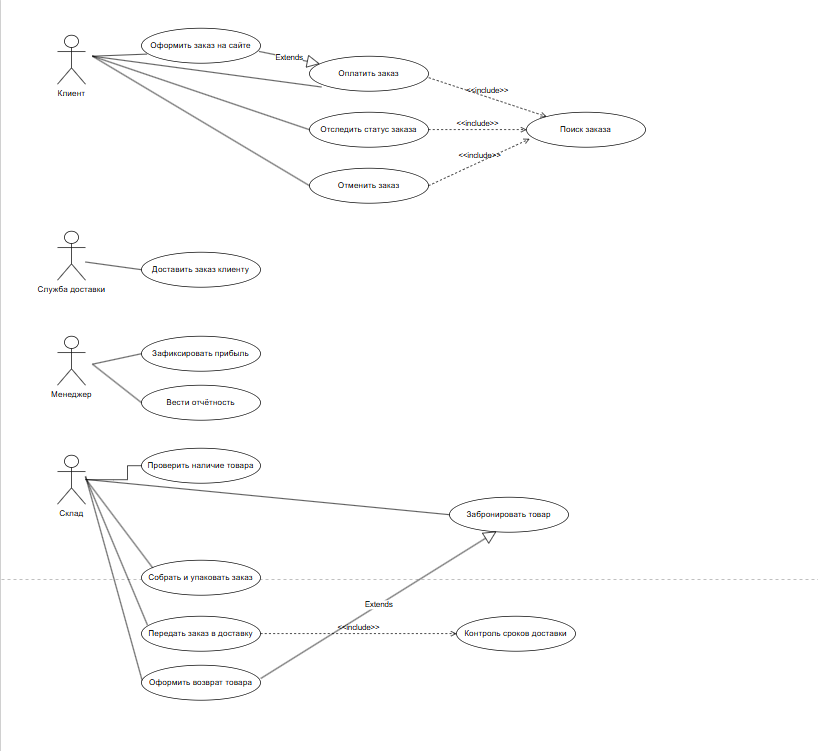
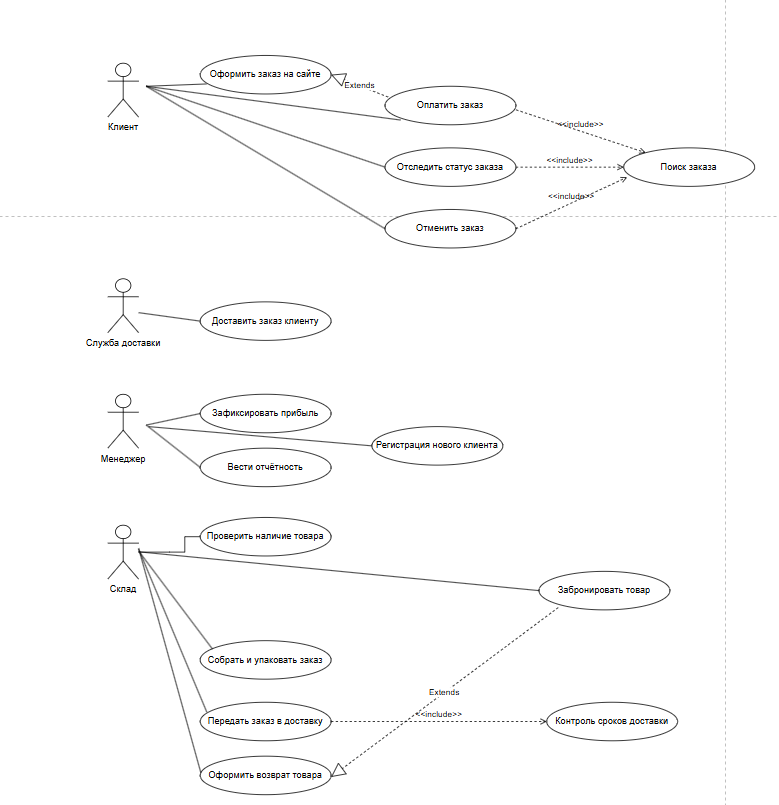
Лабораторная работа №1

diff --git a/docs/lab1.md b/docs/lab1.md
@@ -12,19 +12,19 @@
 
 ### 1.1 Описание предметной области
 
-Система «Учёт заказов в интернет-магазине» предназначена для хранения и обработки информации о заказах, товарах, клиентах, оплате и доставке. Система автоматизирует процесс оформления и обработки заказов: от момента оформления на сайте до вручения клиенту и фиксации прибыли.
+Система «Учёт заказов в интернет-магазине» предназначена для хранения и обработки информации о заказах, товарах, зарегистрированных клиентах, оплате и доставке. Система автоматизирует процесс обработки заказов в базе данных (БД): от момента ручной регистрации нового клиента менеджером в системе и оформления заказа через сайт до автоматического изменения электронных статусов при доставке и фиксации прибыли.
 
 **Основные объекты системы:**
 
-- **Заказ** — идентификатор, дата оформления, клиент, список товаров, сумма, способ оплаты, статус, дата доставки.
-- **Товар** — идентификатор, наименование, категория, цена, остаток на складе.
-- **Клиент** — идентификатор, ФИО, контактные данные, адрес доставки, история заказов.
-- **Менеджер** — сотрудник, обрабатывающий заказы и формирующий отчётность.
-- **Склад** — данные о наличии и бронировании товаров, сборке и упаковке заказов.
-- **Служба доставки** — данные о доставке заказа клиенту.
-- **Оплата** — способ оплаты (онлайн или при получении), статус оплаты.
+- **Заказ** — идентификатор (ID), дата оформления, привязка к ID клиента, список товаров, итоговая сумма, способ оплаты, текущий статус в БД, дата доставки.
+- **Товар** — идентификатор, наименование, категория, цена, доступный остаток на складе.
+- **Клиент** — идентификатор (ID), ФИО, контактные данные, адрес доставки, созданная менеджером учётная запись, история заказов.
+- **Менеджер** — сотрудник, выполняющий первичную регистрацию клиентов в базе данных, переводящий заказы в статус сборки и контролирующий отчётность.
+- **Склад** — подсистема учёта, хранящая данные о наличии товаров, автоматическом резервировании и формировании электронных листов сборки.
+- **Служба доставки** — подсистема, передающая в БД статус исполнения («Доставлено» или «Отказ»).
+- **Оплата** — способ расчёта (онлайн или при получении), статус подтверждения платежа в системе.
 
-**Связи между объектами:** один клиент может оформить несколько заказов, один заказ может содержать несколько товаров, каждый заказ относится к определённому клиенту, менеджеру и способу оплаты.
+**Связи между объектами:** один зарегистрированный менеджер может внести в базу данных несколько клиентов; один клиент может оформить несколько заказов; один заказ может содержать несколько товаров; каждый заказ в БД строго относится к определённому клиенту, менеджеру и выбранному способу оплаты.
 
 ### 1.2 Цели системы
 
@@ -34,19 +34,30 @@
 
 - хранение данных о заказах и клиентах;
 - хранение информации о товарах и остатках на складе;
-- регистрацию новых заказов;
+- регистрацию менеджером новых клиентов в базе данных;
 - ведение истории заказов;
 - просмотр информации о заказе и его статусе;
 - формирование списка заказов для сборки и доставки;
-- редактирование и удаление записей;
-- сохранность и целостность данных.
+- редактирование и удаление записей, сохранность и целостность данных.
 
 ### 1.3 Пользователи системы и их роли
 
 - **Клиент** — основной пользователь системы. Может оформлять заказы, оплачивать их, отслеживать статус, отменять заказы, просматривать историю заказов.
-- **Менеджер** — отвечает за обработку заказов. Может фиксировать прибыль и вести отчётность.
+- **Менеджер** — отвечает за первичную регистрацию и заведение карточки клиента в базе данных, обработку заказов, фиксацию прибыли и ведение отчётности.
 - **Склад** — отвечает за наличие и сборку товаров. Может проверять наличие товара, бронировать товары, собирать и упаковывать заказы, передавать их в доставку, оформлять возврат товара.
 - **Служба доставки** — доставляет заказ клиенту.
+
+### 1.4 Основные функции системы
+
+1. Регистрация клиента менеджером в базе данных
+2. Ввод данных о заказе
+3. Авторизация пользователя
+4. Проверка данных
+5. Проверка наличия товара на складе
+6. Регистрация оплаты
+7. Сохранение заказа в базе данных
+8. Сборка и отправка заказа
+9. Формирование отчёта
 
 ---
 
@@ -58,24 +69,33 @@
 
 Диаграмма вариантов использования отражает взаимодействие актёров (Клиент, Менеджер, Склад, Служба доставки) с функциями системы.
 
-- Актёр **Клиент** взаимодействует с вариантами использования «Оформить заказ на сайте», «Оплатить заказ», «Отследить статус заказа», «Отменить заказ». Оформление заказа расширяется (*Extends*) оплатой заказа. Оплата заказа, отслеживание статуса и отмена заказа включают (*Include*) поиск заказа.
+- Актёр **Менеджер** взаимодействует с вариантами использования «Регистрация нового клиента», «Зафиксировать прибыль» и «Вести отчётность». Менеджер является ключевым сотрудником, который заводит карточку покупателя в базу данных перед оформлением сделки.
+- Актёр **Клиент** взаимодействует с вариантами использования «Оформить заказ на сайте», «Оплатить заказ», «Отследить статус заказа» и «Отменить заказ». Оформление заказа расширяется (*Extends*) оплатой заказа. Оплата заказа, отслеживание статуса и отмена заказа включают в себя (*Include*) обязательный поиск заказа в базе данных.
 - Актёр **Служба доставки** взаимодействует с вариантом использования «Доставить заказ клиенту».
-- Актёр **Менеджер** взаимодействует с вариантами использования «Зафиксировать прибыль» и «Вести отчётность».
-- Актёр **Склад** взаимодействует с вариантами использования «Проверить наличие товара», «Забронировать товар», «Собрать и упаковать заказ», «Передать заказ в доставку», «Оформить возврат товара». Передача заказа в доставку включает (*Include*) контроль сроков доставки, а оформление возврата товара расширяется (*Extends*) контролем сроков доставки.
+- Актёр **Склад** взаимодействует с вариантами использования «Проверить наличие товара», «Забронировать товар», «Собрать и упаковать заказ», «Передать заказ в доставку» и «Оформить возврат товара». Передача заказа в доставку включает (*Include*) контроль сроков доставки, а оформление возврата товара расширяется (*Extends*) контролем сроков доставки.
 
 ### 2.2 Блок-схема оформления заказа
 
-Сначала система получает данные заказа с сайта. Затем она проверяет, есть ли товары на складе.
+![Блок-схема оформления заказа](flowchart.png)
 
-- Если товаров нет — система устанавливает статус «Отменён» и завершает процесс.
-- Если товары есть — система бронирует их на складе.
+На Рисунке 2 показана блок-схема работы программы при обработке заказов. Система управляет процессом и меняет статусы в базе данных (БД):
 
-Далее проверяется, оплачен ли заказ:
+1. Сначала менеджер вводит в систему данные для регистрации нового клиента, и программа создаёт его карточку в базе данных.
+2. Затем система принимает данные самого заказа с сайта.
+3. Программа автоматически проверяет по базе данных, есть ли выбранный товар на складе.
+   - Если товара нет, система сразу ставит заказу статус «Отменён» и завершает работу.
+   - Если товар есть, программа временно бронирует его в базе данных.
+4. Далее проверяется условие: изменился ли статус заказа на «Оплачен».
+   - Если оплата не пришла, система отменяет бронь товара, ставит статус «Отменён» и процесс завершается.
+   - Если оплата подтверждена, система ставит статус «В сборке» и автоматически отправляет список товаров на склад.
+5. После доставки проверяется следующее условие: пришёл ли в БД статус «Заказ вручён».
+   - Если клиент отказался, программа сама возвращает товар на склад (+1 к остаткам), меняет статус заказа на «Возврат» и завершает работу.
+   - Если заказ успешно вручён, система записывает прибыль в БД, ставит финальный статус «Выполнен» и закрывает процесс.
 
-- если нет — бронь снимается, устанавливается статус «Отменён», процесс завершается;
-- если да — выполняется сборка и отправка заказа.
+---
 
-После доставки проверяется, успешно ли вручён заказ:
+## 3. Вывод
 
-- если нет — товар возвращается на склад (+1 к остаткам), устанавливается статус «Возврат», процесс завершается;
-- если да — фиксируется прибыль в БД, устанавливается статус «Выполнен», процесс завершается.
+В ходе лабораторной работы была поставлена задача и смоделированы процессы информационной системы «Учёт заказов в интернет-магазине». Была описана предметная область, определены объекты системы, её пользователи и основные функции, включая подсистему регистрации новых клиентов менеджером. Построены Use Case диаграмма (взаимодействие актёров с системой через связи «Include» и «Extend») и системная блок-схема (пошаговый алгоритм обработки заказа).
+
+В результате получены практические навыки постановки задачи и моделирования процессов информационной системы со стороны работы программы и базы данных, которые могут быть использованы при дальнейшей разработке программного обеспечения.
